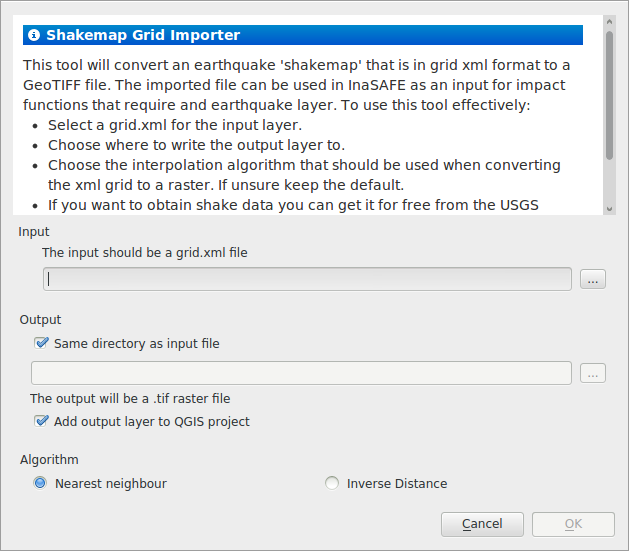
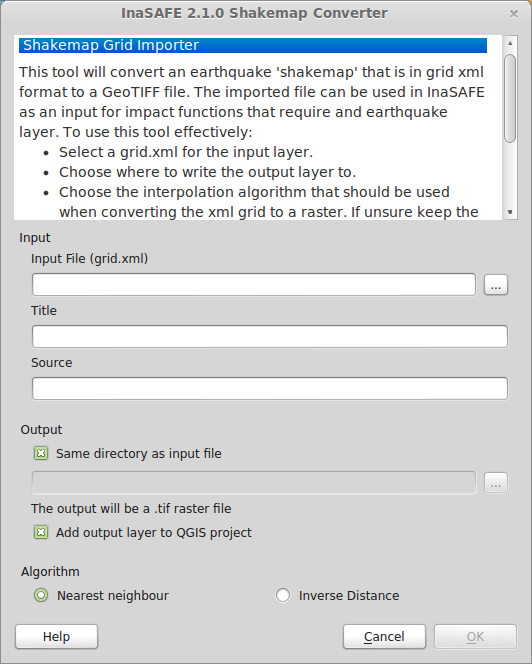
Updated shakemap converter user docs.

diff --git a/docs/source/user-docs/application-help/converter.rst b/docs/source/user-docs/application-help/converter.rst
@@ -1,7 +1,7 @@
 .. _converter:
 
-Converter
-=========
+Shakemap Converter
+==================
 
 Shakemaps are useful for carrying out contingency planning for the event of an
 earthquake. Normally these are distributed as grid.xml files which are not
@@ -23,6 +23,8 @@ it can be used immediately for analysis.
 To use this tool effectively:
 
  * Select a grid.xml for the input layer.
+ * Add the title of the shakemap that will be used for the keywords.
+ * Add the source of the shakemap that will also be used for the keywords.
  * Choose where to write the output layer to.
  * Choose the interpolation algorithm that should be used when converting the
    xml grid to a raster. If unsure keep the default.
